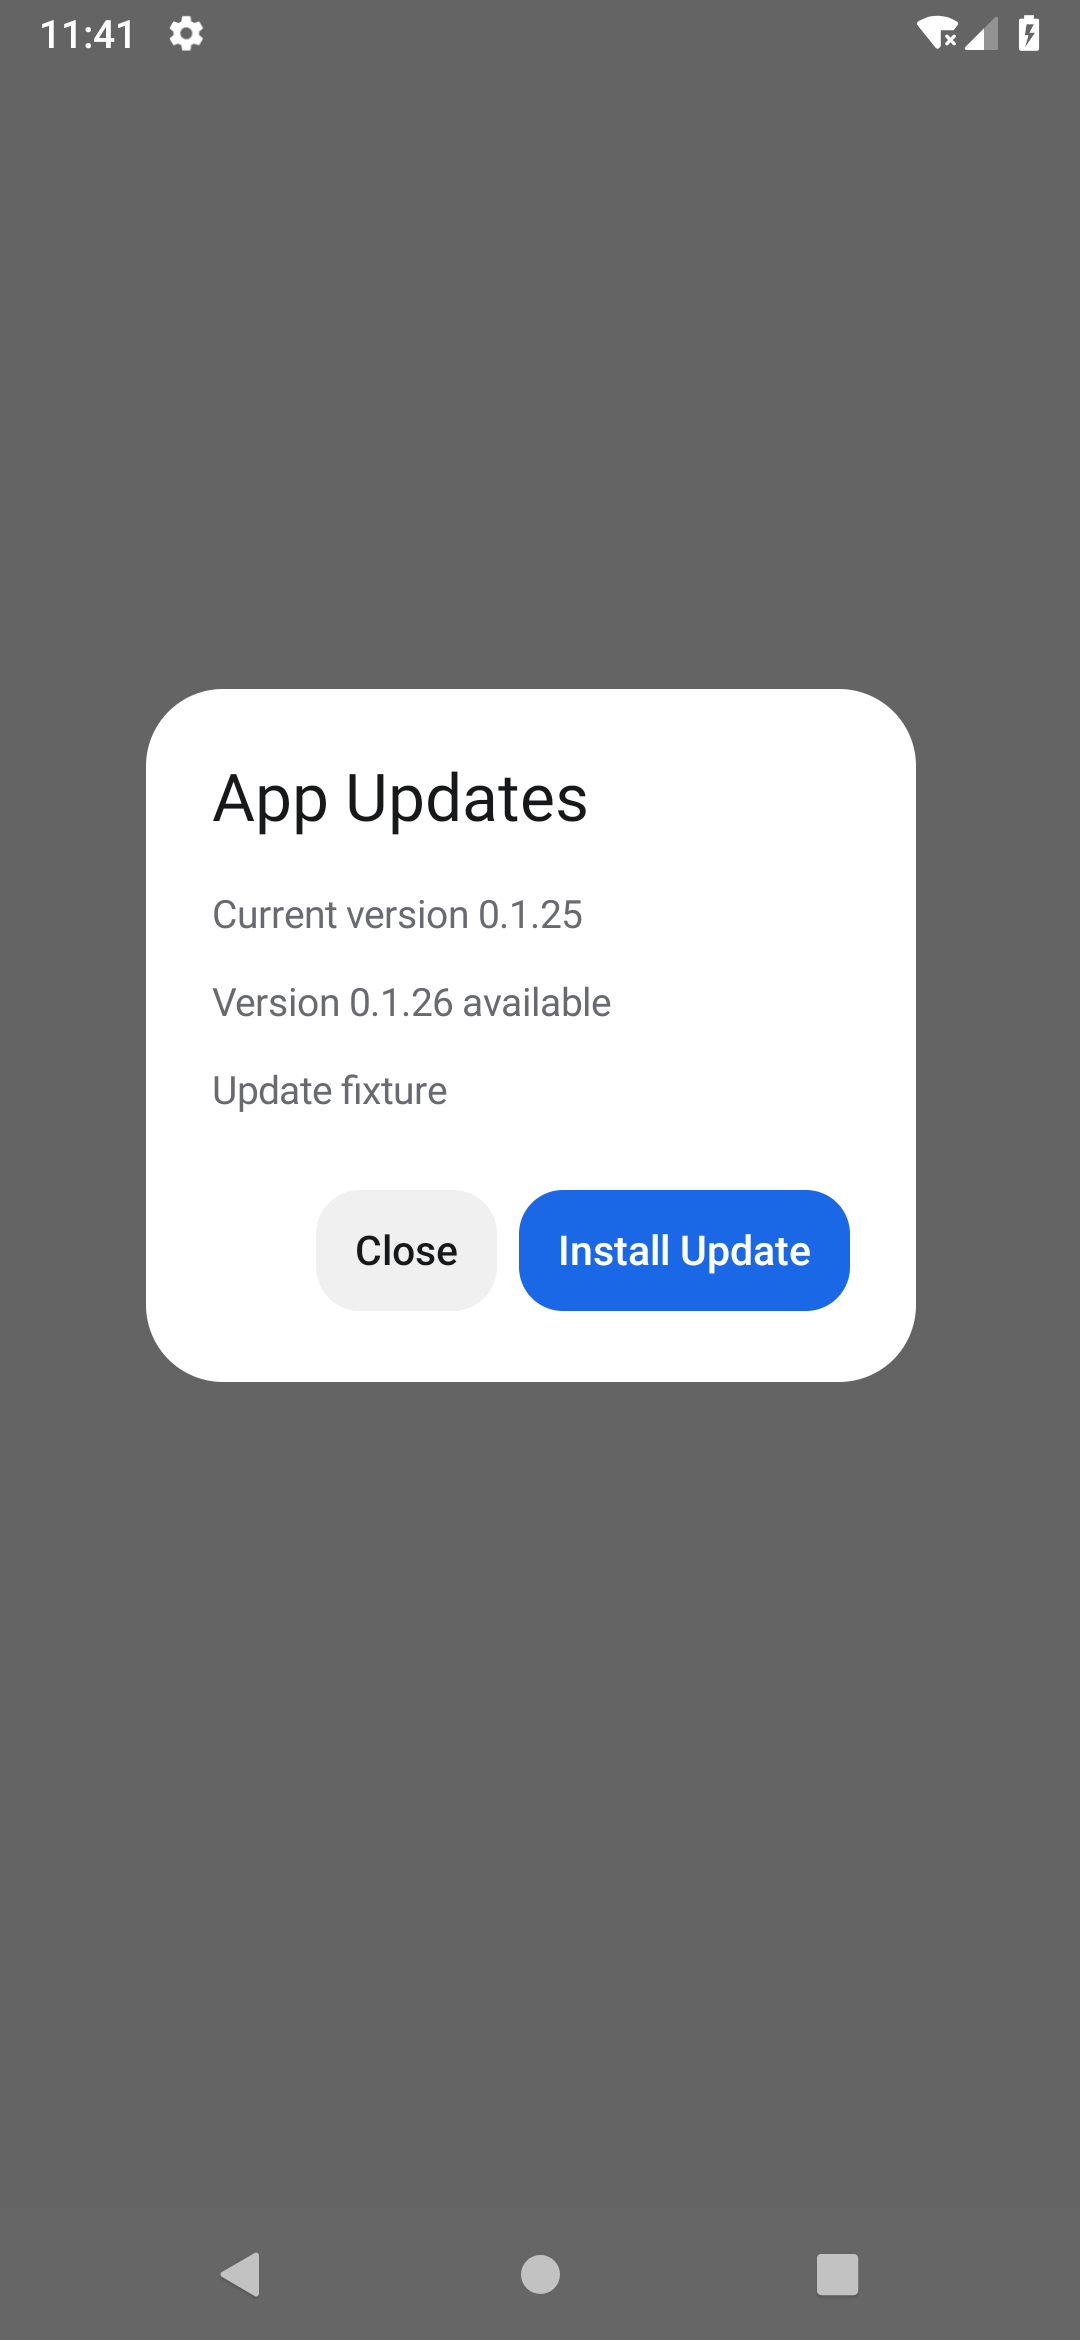
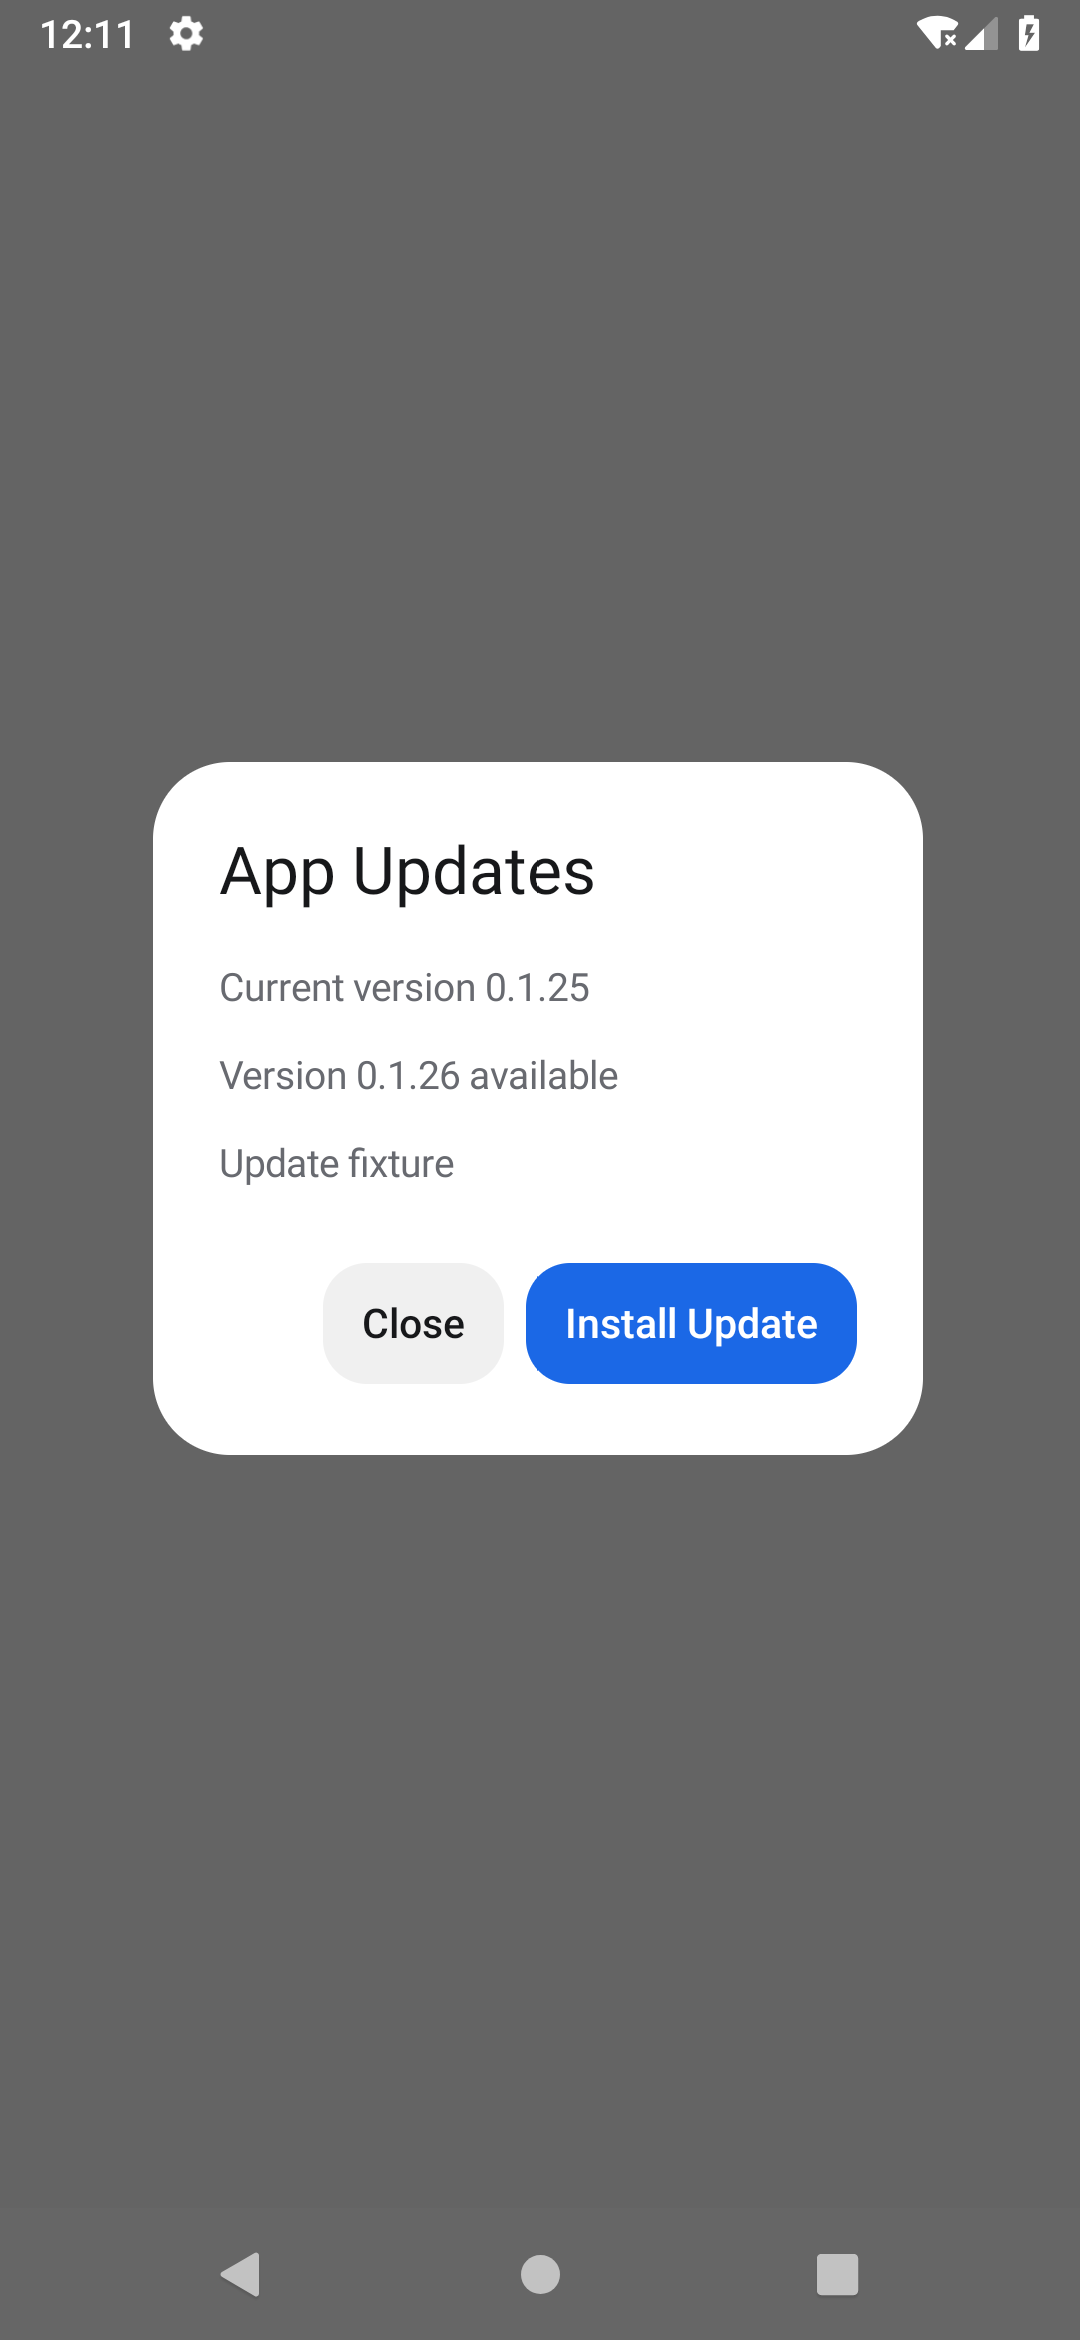
修复版本检查失败提示并补齐安卓最终验收

Changed region(s): [[0.1222, 0.2808, 0.8556, 0.6239], [0.0611, 0.0, 0.1222, 0.0312]]

diff --git a/android/app/src/androidTest/java/com/xtreeroot/mb/ui/ComponentsDeviceTest.kt b/android/app/src/androidTest/java/com/xtreeroot/mb/ui/ComponentsDeviceTest.kt
@@ -96,7 +96,7 @@ class ComponentsDeviceTest {
 
     @Test fun appUpdateActionsCheckDownloadCancelAndHandOffInstallation() = runBlocking {
         val activity = instrumentation.startActivitySync(Intent(app, MainActivity::class.java).addFlags(Intent.FLAG_ACTIVITY_NEW_TASK)) as MainActivity
-        val state = mutableStateOf(AppUpdateState())
+        val state = mutableStateOf(AppUpdateState(checked = true, error = "Check service unavailable"))
         val uri = URI("https://github.com/xTreeRoot/MB/releases/tag/mb-android-v0.1.26")
         val release = AppRelease("mb-android-v0.1.26", "0.1.26", uri, "Update fixture", uri, 3, "a".repeat(64))
         var checks = 0; var downloads = 0; var cancelled = 0; var installs = 0
@@ -108,6 +108,8 @@ class ComponentsDeviceTest {
                         install = { installs++ }, dismiss = { cancelled++; state.value = state.value.copy(downloading = false) })
                 } } }
             }
+            await("Check service unavailable")
+            assertTrue(nodes("You're up to date").isEmpty())
             tap("Check Version"); await("Version 0.1.26 available"); assertEquals(1, checks)
             tap("Download Update"); await("Cancel Download"); assertEquals(1, downloads)
             tap("Cancel Download"); assertEquals(1, cancelled)

diff --git a/android/app/src/main/java/com/xtreeroot/mb/ui/AppUpdateView.kt b/android/app/src/main/java/com/xtreeroot/mb/ui/AppUpdateView.kt
@@ -103,7 +103,7 @@ internal fun AppUpdateContent(version: String, state: AppUpdateState, check: () 
             Text(mb("当前版本 $version", "Current version $version"))
             if (state.checking) Text(mb("正在检查远程版本…", "Checking releases…"))
             state.release?.let { release -> Text(mb("发现新版本 ${release.version}", "Version ${release.version} available")); Text(release.notes) }
-            if (state.checked && state.release == null) Text(mb("已是最新版本", "You're up to date"))
+            if (state.checked && state.release == null && !state.checking && state.error == null) Text(mb("已是最新版本", "You're up to date"))
             if (state.downloading) LinearProgressIndicator(progress = { state.progress }, modifier = Modifier.padding(vertical = 8.dp))
             state.error?.let { Text(it) }
         }

diff --git a/android/review/ComponentsAndUpdates/README.md b/android/review/ComponentsAndUpdates/README.md
@@ -6,7 +6,7 @@
 
 设置的“检查版本”从 MB 官方 GitHub Releases 筛选安卓正式版本，按数字比较；下载可取消，逐块核对大小和 SHA-256，读取 APK 核对包名、版本与当前签名，最后通过系统安装器确认覆盖。未知来源未授权时打开本应用授权页，返回后再次点安装。
 
-验证：153 项 JVM 测试通过；lint 0 错误；release/debug/测试 APK 构建通过。组件操作、更新动作、双行音乐发现、视频封面及歌单创建/改名/删除连续 5 轮，共 25 项通过。账号页登录、导航和退出确认另连续 5 轮通过；验证了系统音量与歌曲操作面板。Android 9 的瞬时弹窗关闭后 activeWindow 可能为空，测试改为从应用窗口列表定位，不重试业务操作。
+验证：153 项 JVM 测试通过；lint 0 错误、33 项警告；release/debug/测试 APK 构建通过。组件操作、更新动作、双行音乐发现、视频封面及歌单创建/改名/删除连续 5 轮，共 25 项通过。账号页登录、导航和退出确认另连续 5 轮通过；验证了系统音量与歌曲操作面板。Android 9 的瞬时弹窗关闭后 activeWindow 可能为空，测试改为从应用窗口列表定位，不重试业务操作。最终补测更新检查失败不得显示“已是最新版本”，并从错误状态完整走通检查、下载、取消和安装交接，连续 5 轮通过。
 
 截图：
 
@@ -16,4 +16,4 @@
 - `android-discovery-video-grid.png`：发现页卡片与时长。
 - `android-account-guest-light.png` / `android-account-signed-in-light.png`：模拟账号登录前后。
 
[2 lines of base64/hex data omitted]
